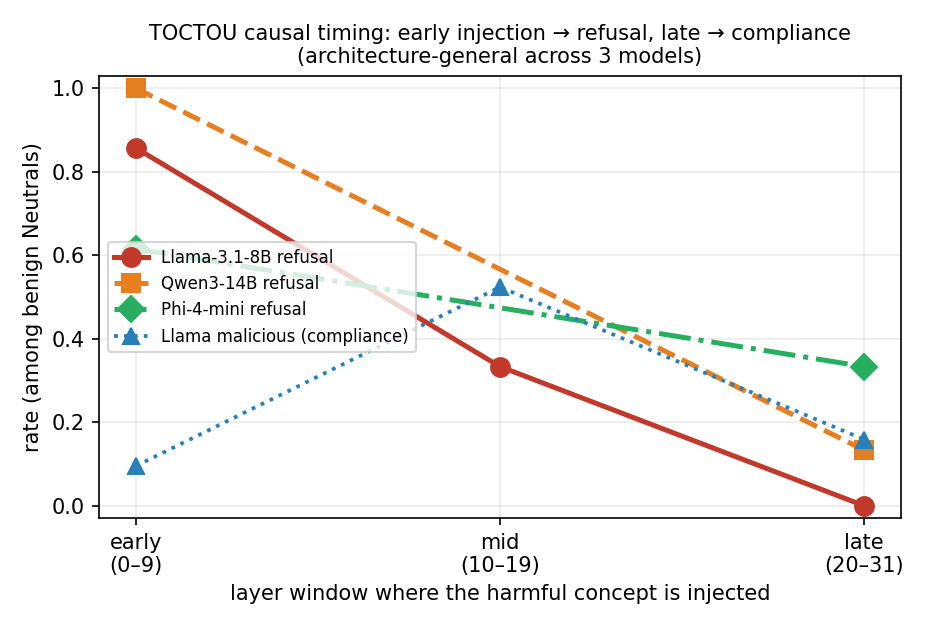
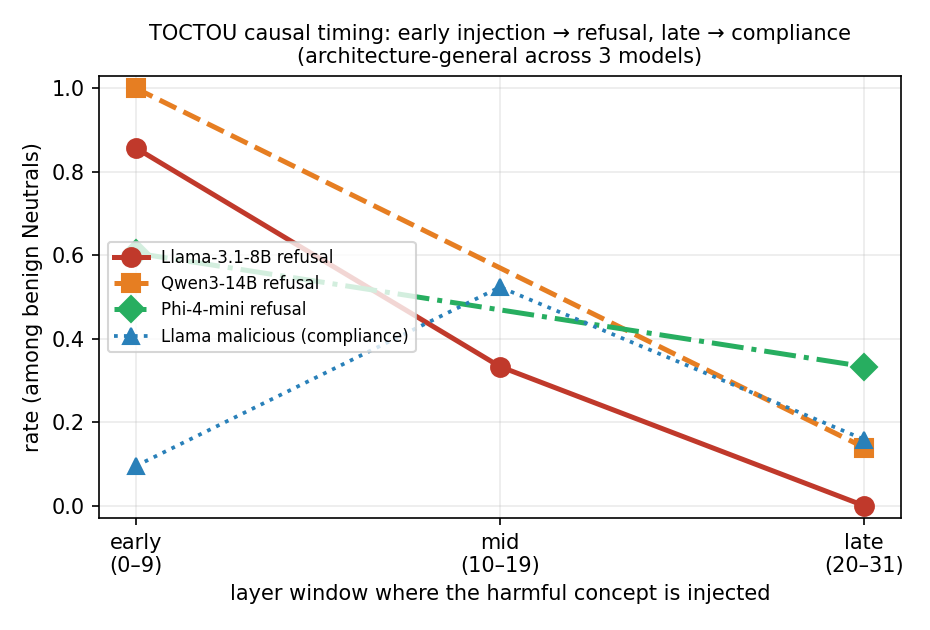
audit-fix: per-condition sufficiency CIs + directional AUC + auto-discover NEC dir
Comprehensive pipeline bug audit (Workflow, 5 reviewers) found 2 HIGH + MED/LOW.
None invalidate a CONCLUSION; two corrupted reported NUMBERS — fixed:

HIGH analyze_behavioral_causality.sufficiency_cis: keyed (base,cw) only → collapsed
  the 3 context_len replicates (last-wins, n=21 not full) AND mixed windows. Now keys
  (base_id,codeword,context_len) and groups per-window from the arm suffix, per-condition
  baseline-BENIGN. Qwen3/Phi-4 (have context_len) now clean: late DS-Direct
  -0.349[-0.512,-0.186] n=43, Phi-4 early -0.263[-0.421,-0.132] n=38 — still excl 0.
  Llama raw lacks context_len (pre-iter18) → resubmitted early/mid/late (jobs 692152-4)
  so raw logs context_len for a clean per-condition CI.

HIGH plot_behavioral.direct_rates: same (base,cw) non-unique membership on the HEADLINE
  TOCTOU figure → included Direct rows from context-lengths whose baseline was not benign.
  Now per-condition (base,cw,context_len). Gradient robust: early refusal 0.857/1.000/0.605
  → late 0.000/0.140/0.333 across Llama/Qwen3/Phi-4.

MED 22._auc: max(a,1-a) symmetric fold is biased up for null features. Now RAW directional
  AUC + separate |auc-0.5| power. Held-out-concept AUC 0.668 UNCHANGED (always sklearn).
  Univariate now honest+directional: early_align 0.349, mid_align 0.343 (low align → DS-mal).

LOW: 22 bare-except→ImportError/else; plot NEC dir auto-discovered (latest w/ all 4 windows)
  instead of hardcoded.
[…]

diff --git a/doublespeak_causality/22_fit_success_predictors.py b/doublespeak_causality/22_fit_success_predictors.py
@@ -25,9 +25,11 @@ FEATS = ["early_align", "mid_align", "late_align", "early_to_late", "onset_layer
 
 
 def _auc(y, s):
-    """ROC AUC. Prefer sklearn (tie-correct; onset_layer is integer with ties); fallback to a
-    rank statistic. A feature and its negation are symmetric — report max(auc, 1-auc) so a
-    strongly *negative* predictor isn't reported as ~0 (direction is set by the sign of the coef)."""
+    """RAW directional ROC AUC (sklearn, tie-correct; rank-statistic fallback). Directional: <0.5
+    means the feature predicts the POSITIVE class *negatively* (e.g. low early_align → DS-malicious).
+    NOTE: report this raw value, NOT max(auc,1-auc) — the symmetric fold is biased upward for
+    genuinely null features (sampling noise pushes |auc-0.5| away from 0), which would make a
+    no-signal feature look predictive. Absolute predictive power = |auc-0.5| is reported separately."""
     y = np.asarray(y); s = np.asarray(s, float)
     if len(set(y.tolist())) < 2:
         return float("nan")
@@ -39,7 +41,7 @@ def _auc(y, s):
         order = np.argsort(s, kind="mergesort")
         ranks = np.empty(len(s), float); ranks[order] = np.arange(1, len(s) + 1)
         a = float((ranks[y == 1].sum() - len(pos) * (len(pos) + 1) / 2) / (len(pos) * len(neg)))
-    return max(a, 1.0 - a)
+    return a
 
 
 def main():
@@ -55,18 +57,20 @@ def main():
     concepts = np.array([r["concept"] for r in rows])
     print(f"[predict] n={len(rows)} pos(DS_MALICIOUS)={int(y.sum())} concepts={len(set(concepts))}")
 
-    # 1) univariate AUCs
-    print("[predict] univariate AUC (predicting DS_MALICIOUS):")
-    uni = {}
+    # 1) univariate AUCs (raw directional; abs power = |auc-0.5| reported alongside)
+    print("[predict] univariate AUC (predicting DS_MALICIOUS; <0.5 = negative predictor):")
+    uni, uni_abs = {}, {}
     for j, f in enumerate(FEATS):
-        a = _auc(y, X[:, j]); uni[f] = round(a, 3)
-        print(f"  {f:14s} AUC={a:.3f}")
+        a = _auc(y, X[:, j]); uni[f] = round(a, 3); uni_abs[f] = round(abs(a - 0.5), 3)
+        print(f"  {f:14s} AUC={a:.3f}  |power|={abs(a - 0.5):.3f}")
     # candidate temporal objective: late_align − λ·early_align
     to = X[:, FEATS.index("late_align")] - args.lam * X[:, FEATS.index("early_align")]
-    auc_to = _auc(y, to); print(f"  {'TEMPORAL late−λ·early':22s} AUC={auc_to:.3f}")
+    auc_to = _auc(y, to); print(f"  {'TEMPORAL late−λ·early':22s} AUC={auc_to:.3f}  |power|={abs(auc_to - 0.5):.3f}")
 
     result = {"n": len(rows), "n_pos": int(y.sum()), "univariate_auc": uni,
-              "temporal_objective_auc": round(auc_to, 3), "lam": args.lam}
+              "univariate_abs_power": uni_abs,
+              "temporal_objective_auc": round(auc_to, 3),
+              "temporal_objective_abs_power": round(abs(auc_to - 0.5), 3), "lam": args.lam}
 
     # 2) multivariate CV + held-out-concept — needs sklearn
     try:
@@ -75,6 +79,9 @@ def main():
         from sklearn.pipeline import make_pipeline
         from sklearn.model_selection import StratifiedKFold, GroupKFold
         from sklearn.metrics import roc_auc_score
+    except ImportError as e:
+        print(f"[predict] sklearn unavailable ({e!r}); univariate AUCs only")
+    else:
 
         def cv_auc(splitter, groups=None):
             aucs = []
@@ -97,8 +104,6 @@ def main():
             mg, sg, kg = cv_auc(gkf, groups=concepts)
             print(f"[predict] HELD-OUT-CONCEPT AUC = {mg:.3f} ± {sg:.3f} (k={kg}) <-- generalization test")
             result["heldout_concept_auc_mean"], result["heldout_concept_auc_std"] = round(mg, 3), round(sg, 3)
-    except Exception as e:
-        print(f"[predict] sklearn unavailable ({e!r}); univariate AUCs only")
 
     out = args.out or os.path.join(os.path.dirname(args.features), "success_predictors.json")
     json.dump(result, open(out, "w"), indent=2)

diff --git a/doublespeak_causality/analyze_behavioral_causality.py b/doublespeak_causality/analyze_behavioral_causality.py
@@ -54,21 +54,30 @@ def necessity_cis(nec_dir):
 
 
 def sufficiency_cis(suf_dir):
+    """Per-CONDITION (base_id, codeword, context_len) paired CI, PER WINDOW (from the arm name).
+    Fixes an audit bug where keying on (base,cw) only collapsed the 3 context_len replicates to 1
+    (last-wins) and mixed windows. context_len may be absent in pre-iter18 raw → falls back to a
+    (base,cw)-collapsed key for those runs (unavoidable without context_len in the log)."""
     rows = [json.loads(l) for l in open(os.path.join(suf_dir, "sufficiency_raw.jsonl"))]
-    # baseline-benign set per (base_id, codeword)
-    benign = {(r["base_id"], r["codeword"]) for r in rows
-              if r["arm"] == "baseline_neutral" and r["cat"] == "BENIGN"}
-    ds = {(r["base_id"], r["codeword"]): r for r in rows if r["arm"].startswith("suff_DS_")}
-    di = {(r["base_id"], r["codeword"]): r for r in rows if r["arm"].startswith("suff_Direct_")}
-    win = next((r["arm"][len("suff_DS_"):] for r in rows if r["arm"].startswith("suff_DS_")), "?")
-    x_ds, x_dir = [], []
-    for k in benign:
-        if k in ds and k in di:
-            x_ds.append(float(ds[k]["cat"] == "MALICIOUS"))
-            x_dir.append(float(di[k]["cat"] == "MALICIOUS"))
-    return {win: {"n_base_benign": len(x_ds),
-                  "suff_DS_rate": _ci(x_ds), "suff_Direct_rate": _ci(x_dir),
-                  "DS_minus_Direct": _ci(x_ds, x_dir)}}
+    key = lambda r: (r["base_id"], r["codeword"], r.get("context_len"))
+    benign = {key(r) for r in rows if r["arm"] == "baseline_neutral" and r["cat"] == "BENIGN"}
+    by_win = defaultdict(lambda: {"ds": {}, "di": {}})
+    for r in rows:
+        for pfx, side in (("suff_DS_", "ds"), ("suff_Direct_", "di")):
+            if r["arm"].startswith(pfx):
+                by_win[r["arm"][len(pfx):]][side][key(r)] = r
+    out = {}
+    for win, d in by_win.items():
+        x_ds, x_dir = [], []
+        for k in benign:                       # per-condition, baseline-BENIGN-conditioned
+            if k in d["ds"] and k in d["di"]:
+                x_ds.append(float(d["ds"][k]["cat"] == "MALICIOUS"))
+                x_dir.append(float(d["di"][k]["cat"] == "MALICIOUS"))
+        if x_ds:
+            out[win] = {"n_base_benign": len(x_ds),
+                        "suff_DS_rate": _ci(x_ds), "suff_Direct_rate": _ci(x_dir),
+                        "DS_minus_Direct": _ci(x_ds, x_dir)}
+    return out
 
 
 def main():

diff --git a/doublespeak_causality/plot_behavioral.py b/doublespeak_causality/plot_behavioral.py
@@ -54,7 +54,23 @@ SUFF = discover_sufficiency()
 LLAMA = SUFF.get("Llama-3.1-8B", {})
 QWEN = SUFF.get("Qwen3-14B", {})
 PHI4 = SUFF.get("Phi-4-mini", {})
-NEC = "beh_necessity_Llama-3.1-8B-Instruct_20260727_204515"
+def _latest_necessity(model_sub="Llama-3.1-8B-Instruct"):
+    """Latest necessity dir for a model that has all 4 windows in its summary (auto, not hardcoded)."""
+    cands = []
+    for d in sorted(glob.glob(os.path.join(HERE, "outputs", f"beh_necessity_{model_sub}_*"))):
+        p = os.path.join(d, "necessity_summary.json")
+        if not os.path.exists(p):
+            continue
+        try:
+            res = json.load(open(p)).get("results", {})
+        except Exception:
+            continue
+        if all(w in res for w in ("early", "mid", "late", "late_half_to_end")):
+            cands.append(os.path.basename(d))
+    return cands[-1] if cands else "beh_necessity_Llama-3.1-8B-Instruct_20260727_204515"
+
+
+NEC = _latest_necessity()
 
 
 def direct_rates(dirs):
@@ -65,9 +81,12 @@ def direct_rates(dirs):
         if not os.path.exists(p):
             continue
         rows = [json.loads(l) for l in open(p)]
-        benign = {(r["base_id"], r["codeword"]) for r in rows
-                  if r["arm"] == "baseline_neutral" and r["cat"] == "BENIGN"}
-        dr = [r for r in rows if r["arm"].startswith("suff_Direct_") and (r["base_id"], r["codeword"]) in benign]
+        # per-CONDITION baseline-BENIGN conditioning (base,cw,context_len); context_len absent in
+        # pre-iter18 raw falls back to (base,cw,None). Fixes an audit bug where (base,cw)-only
+        # membership pulled in Direct rows from context-lengths whose baseline was NOT benign.
+        k = lambda r: (r["base_id"], r["codeword"], r.get("context_len"))
+        benign = {k(r) for r in rows if r["arm"] == "baseline_neutral" and r["cat"] == "BENIGN"}
+        dr = [r for r in rows if r["arm"].startswith("suff_Direct_") and k(r) in benign]
         c = Counter(r["cat"] for r in dr); n = len(dr) or 1
         out[win] = {"refusal": c.get("REJECTED", 0) / n, "malicious": c.get("MALICIOUS", 0) / n, "n": len(dr)}
     return out
